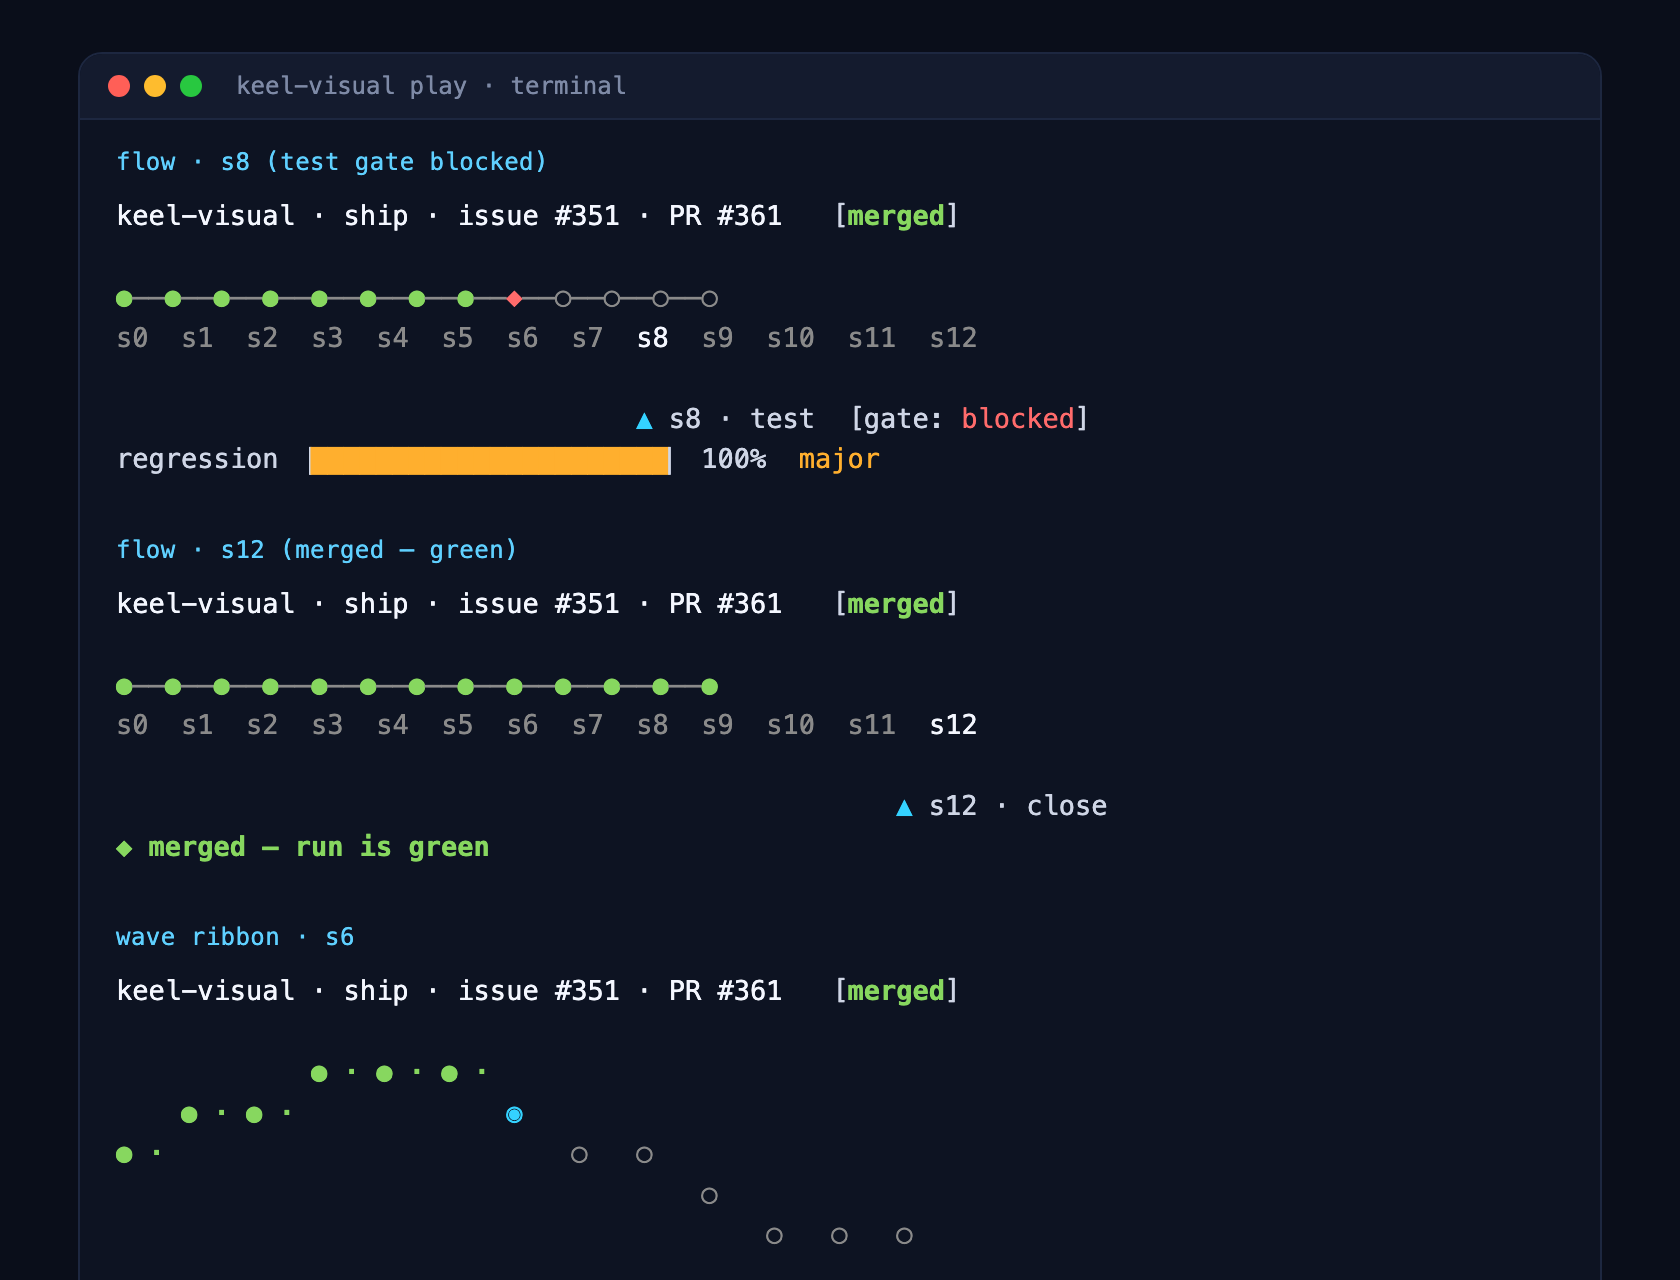
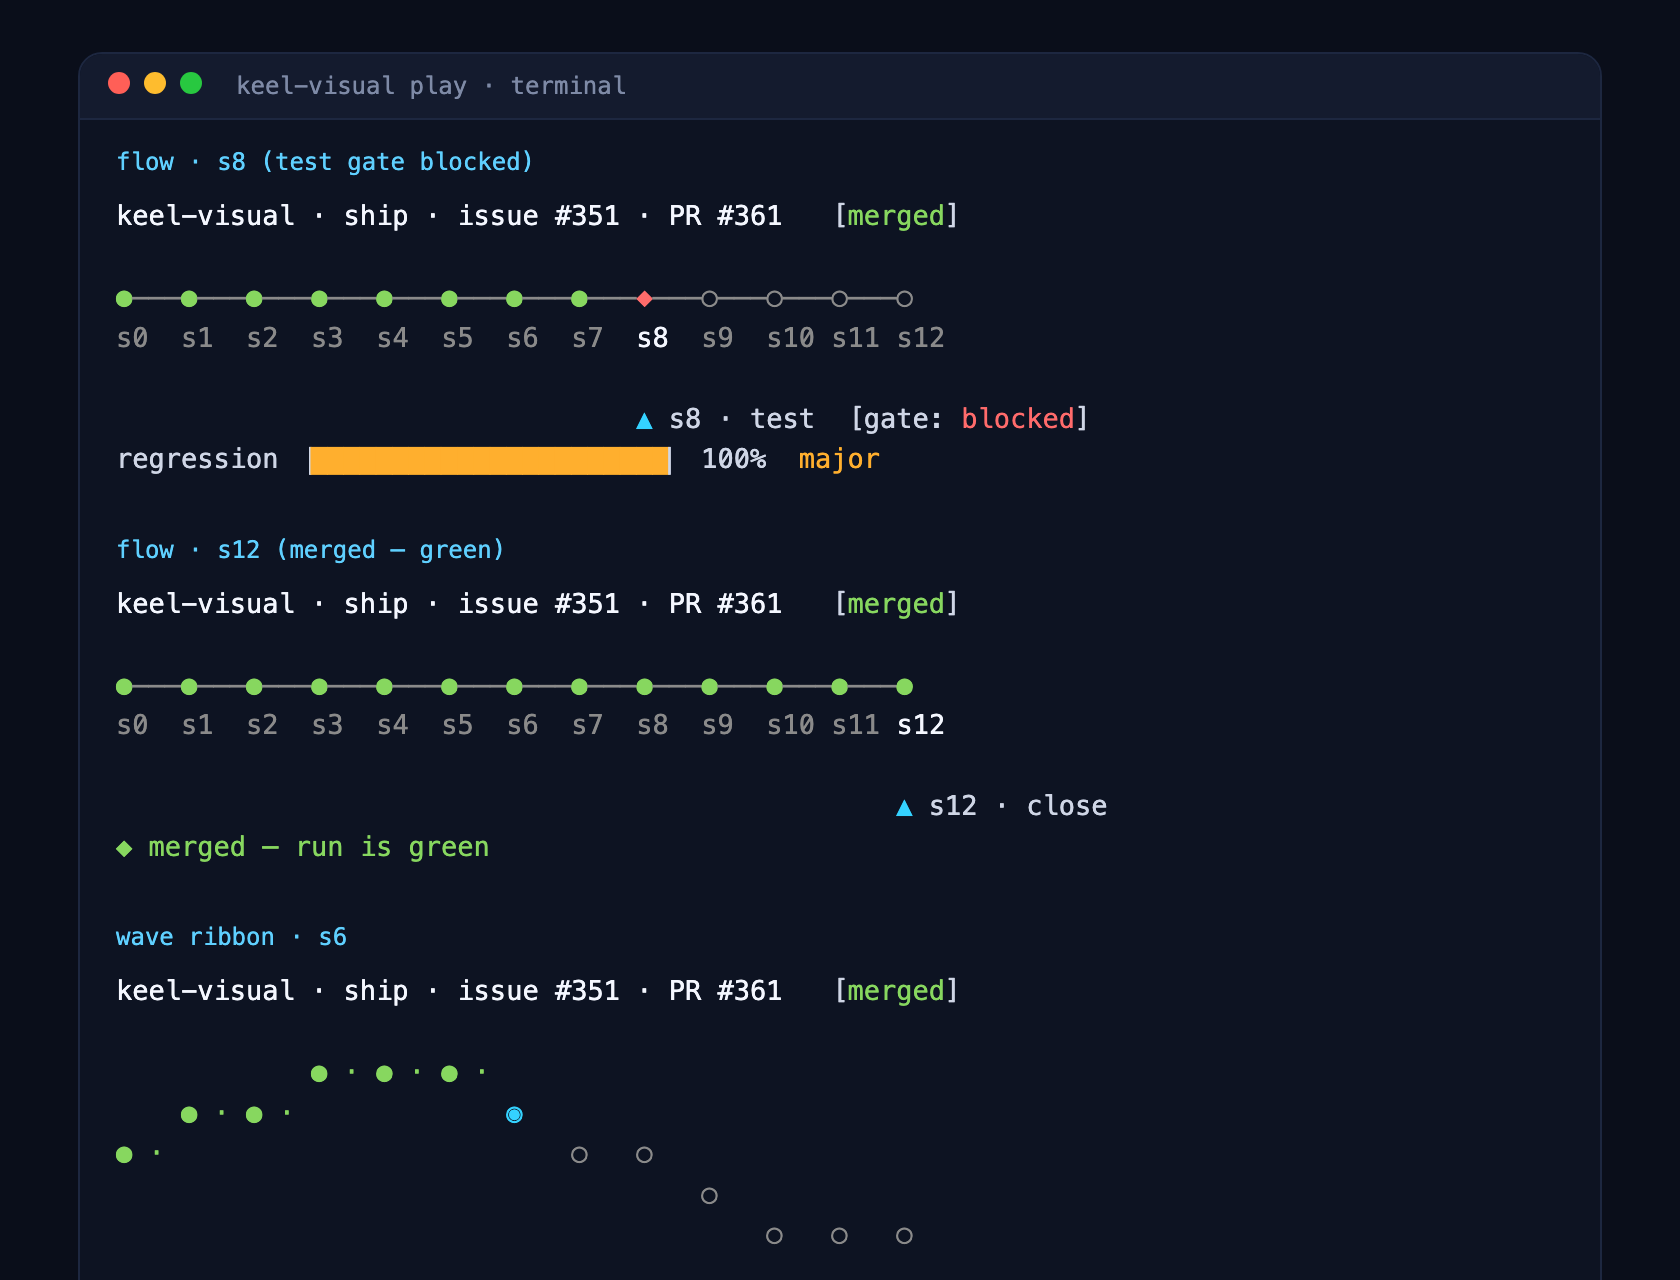
fix(visual): escape <script> breakout, coerce issue/pr to int, align flow labels
Both independent reviewers flagged the same real issue: render_html injected the
run-state JSON into <script>window.KEEL_RUN = …</script> without escaping, so a
</script> in a string value (reachable via a non-int issue/pr number from an
untrusted --ledger-jsonl) could break out → XSS.

- render_html now escapes <, >, & to \uXXXX in the payload (stays valid JSON).
- runstate coerces issue/pr numbers to int-or-None (defense-in-depth: no free
  text from a record reaches the HTML payload).
- terminal flow: connector is now 3 wide and labels 4 wide so glyphs, labels,
  and the caret align on every step (s10–s12 no longer drift).

New tests for </script>/ampersand neutralisation and non-int number coercion.
Still 100% line+branch coverage; ruff clean. Terminal demo screenshot updated.

diff --git a/keel-visual/src/keel_visual/runstate.py b/keel-visual/src/keel_visual/runstate.py
@@ -54,6 +54,16 @@ WORST_MAJOR = "major"
 WORST_CRITICAL = "critical"
 
 
+def _int_or_none(value: Any) -> int | None:
+    """Coerce an issue/PR number to ``int`` (or ``None``) — never free text.
+
+    Defense-in-depth: keel writes these as ints, but a hand-edited or corrupt
+    ledger could carry a string. Forcing ``int`` here means no arbitrary string
+    from a record ever reaches the HTML ``window.KEEL_RUN`` payload.
+    """
+    return value if isinstance(value, int) and not isinstance(value, bool) else None
+
+
 def step_index(step_id: str | None) -> int | None:
     """Return the backbone index of ``step_id`` (``None`` when unknown/missing)."""
     if not isinstance(step_id, str):
@@ -198,8 +208,8 @@ def build_run_state(
     return {
         "schema_version": SCHEMA_VERSION,
         "command": command,
-        "issue": issue.get("number") if isinstance(issue, dict) else None,
-        "pr": pr.get("number") if isinstance(pr, dict) else None,
+        "issue": _int_or_none(issue.get("number")) if isinstance(issue, dict) else None,
+        "pr": _int_or_none(pr.get("number")) if isinstance(pr, dict) else None,
         "active_index": active,
         "active_id": BACKBONE[active].id,
         "merged": merged,

diff --git a/keel-visual/src/keel_visual/render.py b/keel-visual/src/keel_visual/render.py
@@ -20,10 +20,18 @@ def render_html(template: str, run_state: dict[str, Any], *, title: str = "keel 
     """Return the template with the run-state JSON and title substituted in.
 
     ``run_state`` is serialised with ``sort_keys`` for deterministic output (two
-    identical runs render byte-identical HTML). ``title`` is escaped for safe use
-    in a ``<title>``/heading context. Pure — reads only its arguments.
+    identical runs render byte-identical HTML) and with ``<``/``>``/``&`` escaped
+    to their JSON ``\\uXXXX`` forms so a string value can never break out of the
+    enclosing ``<script>`` (a ``</script>`` in the payload would otherwise close
+    the tag). ``title`` is HTML-escaped for safe use in a ``<title>``/heading
+    context. Pure — reads only its arguments.
     """
-    payload = json.dumps(run_state, sort_keys=True)
+    payload = (
+        json.dumps(run_state, sort_keys=True)
+        .replace("<", "\\u003c")
+        .replace(">", "\\u003e")
+        .replace("&", "\\u0026")
+    )
     safe_title = (
         str(title)
         .replace("&", "&amp;")

diff --git a/keel-visual/tests/test_render.py b/keel-visual/tests/test_render.py
@@ -29,6 +29,20 @@ class TestRenderHtml(unittest.TestCase):
         out = render.render_html("__TITLE__", {})
         self.assertEqual(out, "keel run")
 
+    def test_script_breakout_is_neutralised(self):
+        tmpl = "<script>window.KEEL_RUN = __KEEL_RUN__;</script>"
+        out = render.render_html(tmpl, {"x": "</script><img src=x onerror=alert(1)>"}, title="t")
+        # No literal </script> or angle brackets from the payload survive.
+        self.assertNotIn("</script><img", out)
+        self.assertIn("\\u003c", out)
+        # Still valid JSON once the unicode escapes are parsed back.
+        body = out[len("<script>window.KEEL_RUN = "):out.index(";</script>")]
+        self.assertEqual(json.loads(body), {"x": "</script><img src=x onerror=alert(1)>"})
+
+    def test_ampersand_escaped(self):
+        out = render.render_html("__KEEL_RUN__", {"a": "x&y"})
+        self.assertIn("\\u0026", out)
+
 
 if __name__ == "__main__":
     unittest.main()

diff --git a/keel-visual/tests/test_runstate.py b/keel-visual/tests/test_runstate.py
@@ -145,6 +145,21 @@ class TestBuildRunState(unittest.TestCase):
         self.assertIsNone(st["issue"])
         self.assertIsNone(st["pr"])
 
+    def test_non_int_issue_number_coerced_to_none(self):
+        # Defense-in-depth: a string issue number (e.g. an injection payload from
+        # a corrupt ledger) never reaches the run-state as free text.
+        rec = _record(action="defer")
+        rec["issue"] = {"number": "42</script>"}
+        rec["pull_request"] = {"number": True}
+        st = rs.build_run_state(rec)
+        self.assertIsNone(st["issue"])
+        self.assertIsNone(st["pr"])
+
+    def test_int_issue_number_preserved(self):
+        st = rs.build_run_state(_record(action="defer", issue=7, pr=9))
+        self.assertEqual(st["issue"], 7)
+        self.assertEqual(st["pr"], 9)
+
 
 if __name__ == "__main__":
     unittest.main()

diff --git a/keel-visual/src/keel_visual/terminal.py b/keel-visual/src/keel_visual/terminal.py
@@ -136,10 +136,10 @@ def _flow_body(
             cglyph = "red"
         cells.append(paint(glyph, cglyph, enable=color))
         lab = step.get("id", "")
-        labels.append(paint(f"{lab:<2}", "white" if idx == active else "dim", enable=color))
-    connector = paint("──", "dim", enable=color)
+        labels.append(paint(f"{lab:<4}", "white" if idx == active else "dim", enable=color))
+    connector = paint("───", "dim", enable=color)
     pipeline = connector.join(cells)
-    label_line = "  ".join(labels)
+    label_line = "".join(labels)
 
     cur = steps[active] if steps else {"id": "s0", "name": "?"}
     pointer_pad = " " * (active * 4)
